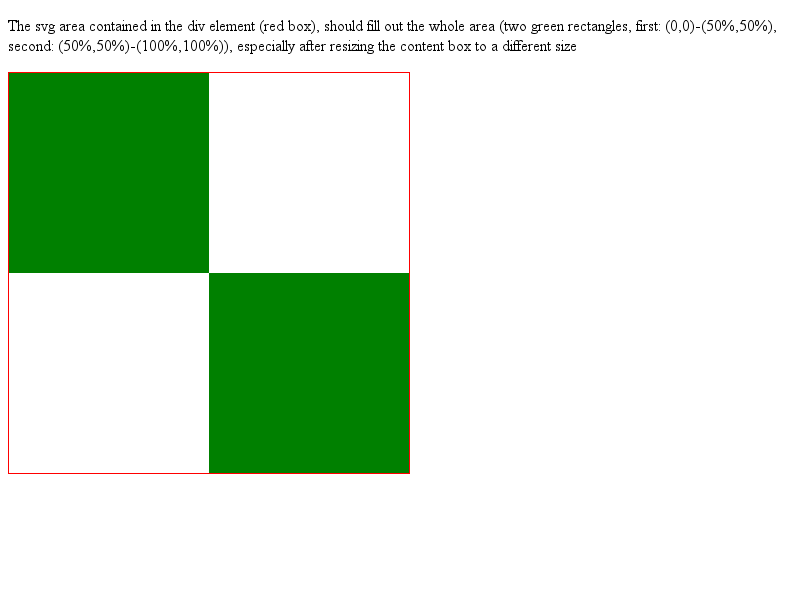
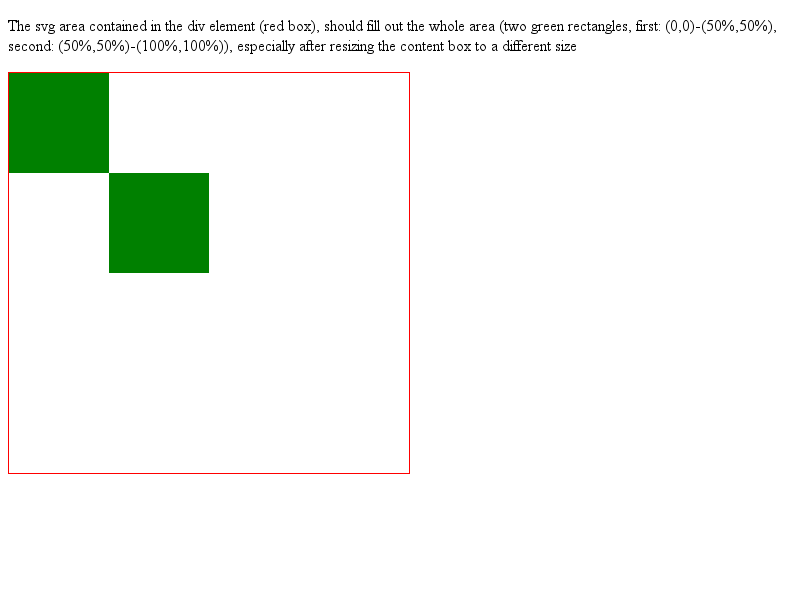
Avoid using SVGElementInstance in calcViewport
Avoid using SVGElementInstance in calcViewport as it is scheduled to be removed. Instead implement the width/height transfer rules in SVGUseElement. This speeds up the SierpinskiCarpet test a lot as profiling showed the instance traversal in calcViewport was very high.

BUG=313438

Review URL: https://codereview.chromium.org/252903004

git-svn-id: svn://svn.chromium.org/blink/trunk@173258 bbb929c8-8fbe-4397-9dbb-9b2b20218538

Changed region(s): [[0.25, 0.45, 0.5312, 0.81], [0.0, 0.12, 0.2812, 0.48]]

diff --git a/LayoutTests/svg/animations/script-tests/use-animate-width-and-height.js b/LayoutTests/svg/animations/script-tests/use-animate-width-and-height.js
@@ -1,0 +1,122 @@
+description("Test animation of use element width/height");
+createSVGTestCase();
+
+// Setup test document
+var symbol = createSVGElement("symbol");
+symbol.setAttribute("id", "symbol");
+
+var rect = createSVGElement("rect");
+rect.setAttribute("id", "rect");
+rect.setAttribute("x", "10");
+rect.setAttribute("y", "10");
+rect.setAttribute("width", "100%");
+rect.setAttribute("height", "100%");
+rect.setAttribute("fill", "green");
+rect.setAttribute("onclick", "executeTest()");
+symbol.appendChild(rect);
+rootSVGElement.appendChild(symbol);
+
+var use = createSVGElement("use");
+use.setAttribute("id", "use");
+use.setAttributeNS('http://www.w3.org/1999/xlink', 'xlink:href', '#symbol');
+use.setAttribute("x", "0");
+use.setAttribute("y", "0");
+use.setAttribute("width", "100");
+use.setAttribute("height", "100");
+rootSVGElement.appendChild(use);
+
+var animate = createSVGElement("animate");
+animate.setAttribute("id", "animate");
+animate.setAttribute("attributeName", "width");
+animate.setAttribute("attributeType", "XML");
+animate.setAttribute("begin", "1s");
+animate.setAttribute("dur", "10s");
+animate.setAttribute("from", "100");
+animate.setAttribute("to", "200");
+use.appendChild(animate);
+
+var animate2 = createSVGElement("animate");
+animate2.setAttribute("id", "animate2");
+animate2.setAttribute("attributeName", "height");
+animate2.setAttribute("attributeType", "XML");
+animate2.setAttribute("begin", "1s");
+animate2.setAttribute("dur", "10s");
+animate2.setAttribute("from", "100");
+animate2.setAttribute("to", "200");
+use.appendChild(animate2);
+
+var shadowRoot = internals.shadowRoot(use);
+
+// Setup animation test
+function sample1() {
+    // Check initial/end conditions
+    shouldBe("use.width.animVal.value", "100");
+    shouldBe("use.width.baseVal.value", "100");
+    shouldBe("use.height.animVal.value", "100");
+    shouldBe("use.height.baseVal.value", "100");
+    shouldBe("use.getAttribute('width')", "'100'");
+    shouldBe("use.getAttribute('height')", "'100'");
+    shouldBe("shadowRoot.firstChild.width.animVal.value", "100");
+    shouldBe("shadowRoot.firstChild.height.animVal.value", "100");
+}
+
+function sample2() {
+    shouldBe("use.width.animVal.value", "105");
+    shouldBe("use.width.baseVal.value", "100");
+    shouldBe("use.height.animVal.value", "105");
+    shouldBe("use.height.baseVal.value", "100");
+    shouldBe("use.getAttribute('width')", "'105'");
+    shouldBe("use.getAttribute('height')", "'105'");
+    shouldBe("shadowRoot.firstChild.width.animVal.value", "105");
+    shouldBe("shadowRoot.firstChild.height.animVal.value", "105");
+}
+
+function sample3() {
+    shouldBe("use.width.animVal.value", "115");
+    shouldBe("use.width.baseVal.value", "100");
+    shouldBe("use.height.animVal.value", "115");
+    shouldBe("use.height.baseVal.value", "100");
+    shouldBe("use.getAttribute('width')", "'115'");
+    shouldBe("use.getAttribute('height')", "'115'");
+    shouldBe("shadowRoot.firstChild.width.animVal.value", "115");
+    shouldBe("shadowRoot.firstChild.height.animVal.value", "115");
+}
+
+function sample4() {
+    shouldBe("use.width.animVal.value", "125");
+    shouldBe("use.width.baseVal.value", "100");
+    shouldBe("use.height.animVal.value", "125");
+    shouldBe("use.height.baseVal.value", "100");
+    shouldBe("use.getAttribute('width')", "'125'");
+    shouldBe("use.getAttribute('height')", "'125'");
+    shouldBe("shadowRoot.firstChild.width.animVal.value", "125");
+    shouldBe("shadowRoot.firstChild.height.animVal.value", "125");
+}
+
+function sample5() {
+    shouldBe("use.width.animVal.value", "135");
+    shouldBe("use.width.baseVal.value", "100");
+    shouldBe("use.height.animVal.value", "135");
+    shouldBe("use.height.baseVal.value", "100");
+    shouldBe("use.getAttribute('width')", "'135'");
+    shouldBe("use.getAttribute('height')", "'135'");
+    shouldBe("shadowRoot.firstChild.width.animVal.value", "135");
+    shouldBe("shadowRoot.firstChild.height.animVal.value", "135");
+}
+
+function executeTest() {
+    const expectedValues = [
+        // [animationId, time, sampleCallback]
+        ["animate2", 0.0,   sample1],
+        ["animate2", 0.5,   sample2],
+        ["animate2", 1.5,   sample3],
+        ["animate2", 2.5,   sample4],
+        ["animate2", 3.5,   sample5]
+    ];
+
+    runAnimationTest(expectedValues);
+}
+
+window.clickX = 50;
+window.clickY = 50;
+var successfullyParsed = true;

diff --git a/LayoutTests/svg/custom/use-attribute-invalidations.html b/LayoutTests/svg/custom/use-attribute-invalidations.html
@@ -1,0 +1,27 @@
+<!DOCTYPE HTML>
+<html>
+<body>
+This test passes if there are three green squares below:<br>
+<svg width="300" height="300">
+  <defs>
+    <symbol id="symbol" width="100">
+      <rect width="100%" height="100%" fill="green"/>
+    </symbol>
+  </defs>
+  <svg x="0" y="0" width="100" height="100">
+    <use id="use1" xlink:href="#symbol"/>
+  </svg>
+  <use id="use2" xlink:href="#symbol" x="100" y="100" width="10" height="100"/>
+  <use id="use3" xlink:href="#symbol" x="200" y="200" width="100" height="10"/>
+</svg>
+<script>
+  onload = function() {
+    // Wait until first layout is finished.
+    window.requestAnimationFrame(function() {
+      document.getElementById('use2').removeAttribute('width');
+      document.getElementById('use3').setAttribute('height', '100');
+    });
+  }
+</script>
+</body>
+</html>

diff --git a/LayoutTests/svg/custom/use-dynamic-attribute-setting.html b/LayoutTests/svg/custom/use-dynamic-attribute-setting.html
@@ -1,0 +1,24 @@
+<!DOCTYPE HTML>
+<html>
+<body>
+This test passes if there are two green squares below:<br>
+<svg width="300" height="300">
+  <defs>
+    <svg id="svg" width="10" height="10">
+      <rect width="100%" height="100%" fill="green"/>
+    </svg>
+  </defs>
+  <use id="use1" xlink:href="#svg" x="0" y="0" width="100" height="100"/>
+  <use id="use2" xlink:href="#svg" x="100" y="100" width="10" height="10"/>
+</svg>
+<script>
+  onload = function() {
+    // Wait until first layout is finished.
+    window.requestAnimationFrame(function() {
+      document.getElementById('use2').setAttribute('width', '100');
+      document.getElementById('use2').setAttribute('height', '100');
+    });
+  }
+</script>
+</body>
+</html>

diff --git a/LayoutTests/svg/custom/use-attribute-invalidations-expected.html b/LayoutTests/svg/custom/use-attribute-invalidations-expected.html
@@ -1,0 +1,17 @@
+<!DOCTYPE HTML>
+<html>
+<body>
+This test passes if there are three green squares below:<br>
+<svg width="300" height="300">
+  <svg x="0" y="0" width="100" height="100">
+    <rect width="100%" height="100%" fill="green"/>
+  </svg>
+  <svg x="100" y="100" width="100" height="100">
+    <rect width="100%" height="100%" fill="green"/>
+  </svg>
+  <svg x="200" y="200" width="100" height="100">
+    <rect width="100%" height="100%" fill="green"/>
+  </svg>
+</svg>
+</body>
+</html>

diff --git a/LayoutTests/svg/animations/use-animate-width-and-height.html b/LayoutTests/svg/animations/use-animate-width-and-height.html
@@ -1,0 +1,14 @@
+<!DOCTYPE HTML PUBLIC "-//IETF//DTD HTML//EN">
+<html>
+<head>
+<script src="../../resources/js-test.js"></script>
+<script src="resources/SVGTestCase.js"></script>
+<script src="resources/SVGAnimationTestCase.js"></script>
+</head>
+<body onload="runSMILTest()">
+<h1>SVG 1.1 dynamic animation tests</h1>
+<p id="description"></p>
+<div id="console"></div>
+<script src="script-tests/use-animate-width-and-height.js"></script>
+</body>
+</html>

diff --git a/LayoutTests/svg/custom/use-dynamic-attribute-setting-expected.html b/LayoutTests/svg/custom/use-dynamic-attribute-setting-expected.html
@@ -1,0 +1,14 @@
+<!DOCTYPE HTML>
+<html>
+<body>
+This test passes if there are two green squares below:<br>
+<svg width="300" height="300">
+  <svg id="svg" width="100" height="100">
+    <rect width="100%" height="100%" fill="green"/>
+  </svg>
+  <svg id="svg" x="100" y="100" width="100" height="100">
+    <rect width="100%" height="100%" fill="green"/>
+  </svg>
+</svg>
+</body>
+</html>

diff --git a/Source/core/svg/SVGUseElement.cpp b/Source/core/svg/SVGUseElement.cpp
@@ -194,6 +194,30 @@ Document* SVGUseElement::externalDocument() const
     return 0;
 }
 
+void transferUseWidthAndHeightIfNeeded(const SVGUseElement& use, SVGElement* shadowElement, const SVGElement& originalElement)
+{
+    ASSERT(shadowElement);
+    if (isSVGSymbolElement(*shadowElement)) {
+        // Spec (<use> on <symbol>): This generated 'svg' will always have explicit values for attributes width and height.
+        // If attributes width and/or height are provided on the 'use' element, then these attributes
+        // will be transferred to the generated 'svg'. If attributes width and/or height are not specified,
+        // the generated 'svg' element will use values of 100% for these attributes.
+        shadowElement->setAttribute(SVGNames::widthAttr, use.width()->isSpecified() ? AtomicString(use.width()->currentValue()->valueAsString()) : "100%");
+        shadowElement->setAttribute(SVGNames::heightAttr, use.height()->isSpecified() ? AtomicString(use.height()->currentValue()->valueAsString()) : "100%");
+    } else if (isSVGSVGElement(*shadowElement)) {
+        // Spec (<use> on <svg>): If attributes width and/or height are provided on the 'use' element, then these
+        // values will override the corresponding attributes on the 'svg' in the generated tree.
+        if (use.width()->isSpecified())
+            shadowElement->setAttribute(SVGNames::widthAttr, AtomicString(use.width()->currentValue()->valueAsString()));
+        else
+            shadowElement->setAttribute(SVGNames::widthAttr, originalElement.getAttribute(SVGNames::widthAttr));
+        if (use.height()->isSpecified())
+            shadowElement->setAttribute(SVGNames::heightAttr, AtomicString(use.height()->currentValue()->valueAsString()));
+        else
+            shadowElement->setAttribute(SVGNames::heightAttr, originalElement.getAttribute(SVGNames::heightAttr));
+    }
+}
+
 void SVGUseElement::svgAttributeChanged(const QualifiedName& attrName)
 {
     if (!isSupportedAttribute(attrName)) {
@@ -209,6 +233,10 @@ void SVGUseElement::svgAttributeChanged(const QualifiedName& attrName)
         || attrName == SVGNames::widthAttr
         || attrName == SVGNames::heightAttr) {
         updateRelativeLengthsInformation();
+        if (m_targetElementInstance) {
+            ASSERT(m_targetElementInstance->correspondingElement());
+            transferUseWidthAndHeightIfNeeded(*this, m_targetElementInstance->shadowTreeElement(), *m_targetElementInstance->correspondingElement());
+        }
         if (renderer)
             RenderSVGResource::markForLayoutAndParentResourceInvalidation(renderer);
         return;
@@ -467,6 +495,9 @@ void SVGUseElement::buildShadowAndInstanceTree(SVGElement* target)
     // shadow tree elements <-> instances in the instance tree.
     associateInstancesWithShadowTreeElements(shadowTreeRootElement->firstChild(), m_targetElementInstance.get());
 
+    ASSERT(m_targetElementInstance->correspondingElement());
+    transferUseWidthAndHeightIfNeeded(*this, m_targetElementInstance->shadowTreeElement(), *m_targetElementInstance->correspondingElement());
+
     // If no shadow tree element is present, this means that the reference root
     // element was removed, as it is disallowed (ie. <use> on <foreignObject>)
     // Do NOT leave an inconsistent instance tree around, instead destruct it.
@@ -702,6 +733,7 @@ void SVGUseElement::expandUseElementsInShadowTree(Node* element)
         if (target && !isDisallowedElement(target)) {
             RefPtr<Element> newChild = target->cloneElementWithChildren();
             ASSERT(newChild->isSVGElement());
+            transferUseWidthAndHeightIfNeeded(*use, toSVGElement(newChild.get()), *target);
             cloneParent->appendChild(newChild.release());
         }
 

diff --git a/Source/core/rendering/svg/RenderSVGViewportContainer.cpp b/Source/core/rendering/svg/RenderSVGViewportContainer.cpp
@@ -67,54 +67,6 @@ void RenderSVGViewportContainer::calcViewport()
     SVGLengthContext lengthContext(element);
     m_viewport = FloatRect(svg->x()->currentValue()->value(lengthContext), svg->y()->currentValue()->value(lengthContext), svg->width()->currentValue()->value(lengthContext), svg->height()->currentValue()->value(lengthContext));
 
-    SVGElement* correspondingElement = svg->correspondingElement();
-    if (correspondingElement && svg->isInShadowTree()) {
-        const HashSet<SVGElementInstance*>& instances = correspondingElement->instancesForElement();
-        ASSERT(!instances.isEmpty());
-
-        SVGUseElement* useElement = 0;
-        const HashSet<SVGElementInstance*>::const_iterator end = instances.end();
-        for (HashSet<SVGElementInstance*>::const_iterator it = instances.begin(); it != end; ++it) {
-            const SVGElementInstance* instance = (*it);
-            ASSERT(isSVGSVGElement(instance->correspondingElement()) || isSVGSymbolElement(instance->correspondingElement()));
-            if (instance->shadowTreeElement() == svg) {
-                ASSERT(correspondingElement == instance->correspondingElement());
-                useElement = instance->directUseElement();
-                if (!useElement)
-                    useElement = instance->correspondingUseElement();
-                break;
-            }
-        }
-
-        ASSERT(useElement);
-        bool isSymbolElement = isSVGSymbolElement(*correspondingElement);
-
-        // Spec (<use> on <symbol>): This generated 'svg' will always have explicit values for attributes width and height.
-        // If attributes width and/or height are provided on the 'use' element, then these attributes
-        // will be transferred to the generated 'svg'. If attributes width and/or height are not specified,
-        // the generated 'svg' element will use values of 100% for these attributes.
-
-        // Spec (<use> on <svg>): If attributes width and/or height are provided on the 'use' element, then these
-        // values will override the corresponding attributes on the 'svg' in the generated tree.
-
-        SVGLengthContext lengthContext(element);
-        if (useElement->hasAttribute(SVGNames::widthAttr))
-            m_viewport.setWidth(useElement->width()->currentValue()->value(lengthContext));
-        else if (isSymbolElement && svg->hasAttribute(SVGNames::widthAttr)) {
-            RefPtr<SVGLength> containerWidth = SVGLength::create(LengthModeWidth);
-            containerWidth->setValueAsString("100%", ASSERT_NO_EXCEPTION);
-            m_viewport.setWidth(containerWidth->value(lengthContext));
-        }
-
-        if (useElement->hasAttribute(SVGNames::heightAttr))
-            m_viewport.setHeight(useElement->height()->currentValue()->value(lengthContext));
-        else if (isSymbolElement && svg->hasAttribute(SVGNames::heightAttr)) {
-            RefPtr<SVGLength> containerHeight = SVGLength::create(LengthModeHeight);
-            containerHeight->setValueAsString("100%", ASSERT_NO_EXCEPTION);
-            m_viewport.setHeight(containerHeight->value(lengthContext));
-        }
-    }
-
     if (oldViewport != m_viewport) {
         setNeedsBoundariesUpdate();
         setNeedsTransformUpdate();
